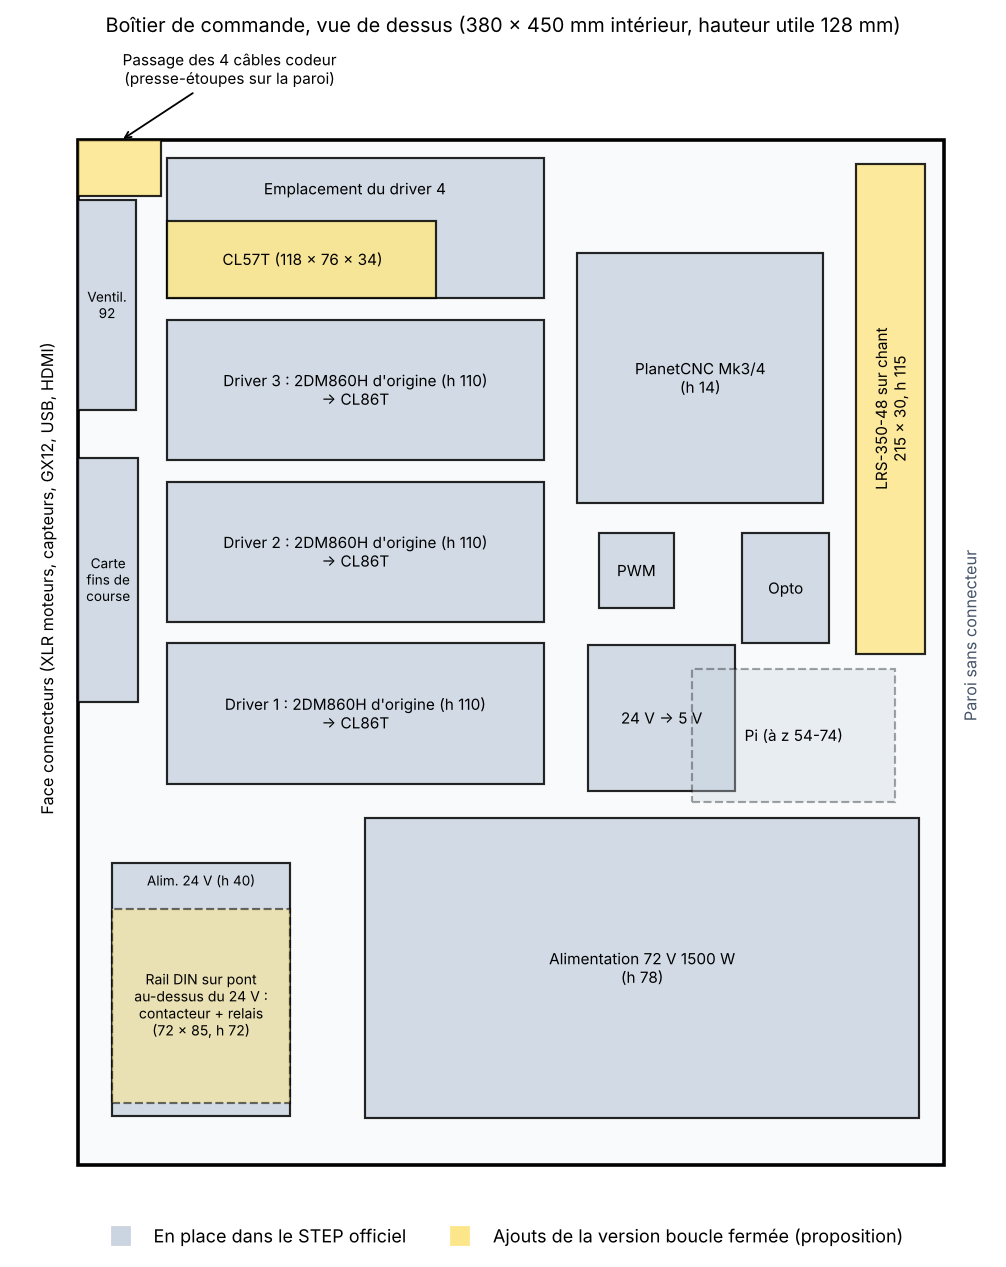
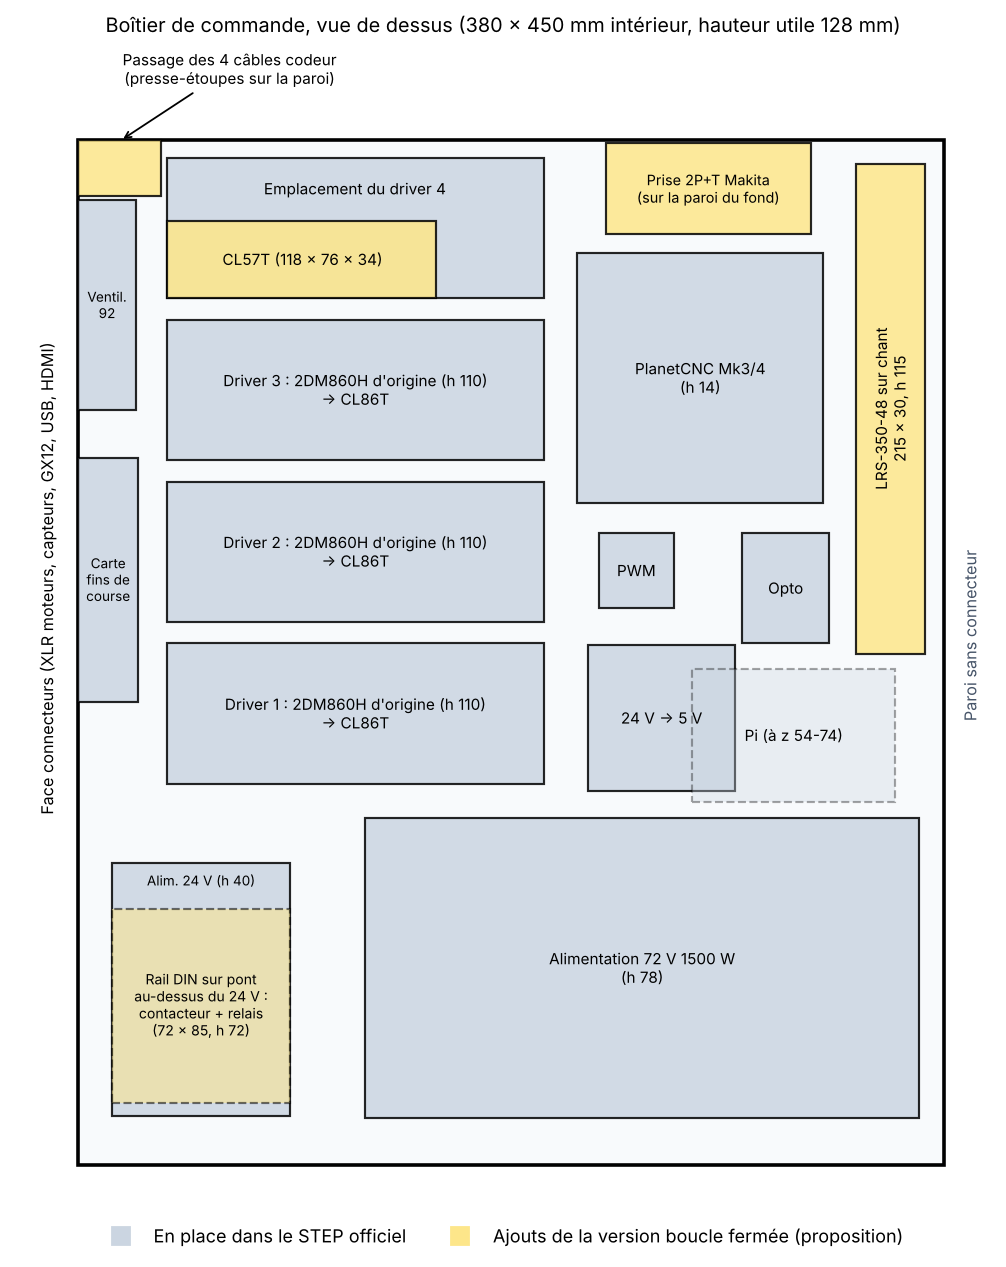
Choix de câblage : bobine 24 V, Makita dans le boîtier de commande
- lot K : contacteur à bobine 24 V CC (le câble de l'arrêt d'urgence reste en
  très basse tension), relais et prise de la Makita dans le boîtier de
  commande, boîtier VFD reporté, câble d'arrêt d'urgence et presse-étoupes
- plan-cablage.md : boucle d'arrêt d'urgence et de marche, choix expliqués
- budget, boîtier de commande, pièces acier et README mis à jour (≈ 7 230 €)

Claude-Session: https://claude.ai/code/session_01FwK9mfrBbJ8mfnDbu7yRaF

Changed region(s): [[0.5855, 0.0923, 0.832, 0.1847]]

diff --git a/docs/budget.md b/docs/budget.md
@@ -13,6 +13,7 @@ Les recherches sont dans [`bom/chiffrage/`](../bom/chiffrage/), rangées en lots
 | H | Visserie livrée en France |
 | I | Moteurs en boucle fermée, martyr |
 | J | Revue finale : arrêt d'urgence câblé, relais 25 A pour la Makita, poulies clavetées |
+| K | Choix de câblage : contacteur à bobine 24 V, relais et prise de la Makita dans le boîtier de commande, boîtier VFD reporté |
 
 Pour tout recalculer : `python3 scripts/price_bom.py`. Pour un chiffrage belge : `FAB_PAYS=BE python3 scripts/price_bom.py`.
 
@@ -20,12 +21,12 @@ Pour tout recalculer : `python3 scripts/price_bom.py`. Pour un chiffrage belge :
 
 | | Montant TTC |
 |---|---|
-| **Total chiffré, port compris** | **≈ 7 290 €** |
-| dont prix lus sur la page produit | 4 908 € (67 %) |
-| dont estimations | 2 381 € (acier découpé, sécurité électrique, articles AliExpress, port) |
-| Avec 10 % d'imprévus (fils, outillage, oublis) | ≈ 8 020 € |
-| Variante économique (voir plus bas) | ≈ 5 740 € |
-| Avec le kit broche 2,2 kW + VFD au lieu de la Makita | ≈ 7 430 € |
+| **Total chiffré, port compris** | **≈ 7 230 €** |
+| dont prix lus sur la page produit | 4 908 € (68 %) |
+| dont estimations | 2 319 € (acier découpé, sécurité électrique, articles AliExpress, port) |
+| Avec 10 % d'imprévus (fils, outillage, oublis) | ≈ 7 950 € |
+| Variante économique (voir plus bas) | ≈ 5 680 € |
+| Avec le kit broche 2,2 kW + VFD au lieu de la Makita | ≈ 7 450 € (boîtier VFD compris) |
 | **Kit officiel Mekanika**, « Pack Fab dès 12 463 € HT » | ≈ 14 960 € TTC |
 
 **Ce qui a changé depuis le premier chiffrage (~7 530 €) :**
@@ -54,7 +55,7 @@ Pour tout recalculer : `python3 scripts/price_bom.py`. Pour un chiffrage belge :
   - un support alu Ø65 mm (à vérifier : un vrai 65,0 mm d'alésage) ;
   - une prise de façade 2P+T.
 - **Spindle plate :** percer ses trous au gabarit du support Ø65 avant la découpe.
-- **Le boîtier VFD devient un boîtier relais.** PlanetCNC (M3/M5) pilote le module relais 5 V d'origine, qui commande un relais 25 A alimentant la Makita. Ce relais est en aval du contacteur d'arrêt d'urgence (lot J) : **l'arrêt d'urgence coupe la Makita électriquement**, sans dépendre du logiciel.
+- **Pas de boîtier VFD pour l'instant (lot K).** Le relais 25 A et la prise de la Makita sont dans le boîtier de commande. PlanetCNC (M3/M5) pilote le module relais 5 V d'origine, qui commande le relais 25 A. Ce relais est en aval du contacteur d'arrêt d'urgence : **l'arrêt d'urgence coupe la Makita électriquement**, sans dépendre du logiciel. Les tôles du boîtier VFD seront à découper le jour où la broche 2,2 kW arrive.
 - **Limites :**
   - 710 W, 3 fois moins de puissance ;
   - vitesse réglée à la main, minimum 10 000 tr/min ;
@@ -97,7 +98,7 @@ La commande reste **PlanetCNC Mk3/4 + licence sur le Raspberry Pi 5**, comme l'o
 
 La revue finale a trouvé que la nomenclature n'avait **aucune coupure de puissance câblée**. L'arrêt d'urgence allait seulement au contrôleur : il dépendait du logiciel, ce qui n'est pas une sécurité. Chaîne retenue :
 
-`C14 + fusible → disjoncteur 15 A → contacteur 25 A (bobine 230 V, auto-maintien) → alimentations 72 V et 48 V, relais Makita (et plus tard VFD)`
+`C14 + fusible → disjoncteur 15 A → contacteur 25 A (bobine 24 V CC, auto-maintien) → alimentations 72 V et 48 V, relais Makita (et plus tard VFD)`
 
 - **Arrêt d'urgence Schneider XB5 à 2 contacts NF :** le premier coupe la bobine du contacteur, le second va à l'entrée arrêt d'urgence de PlanetCNC.
 - **Bouton marche vert :** après un arrêt d'urgence ou une coupure secteur, rien ne redémarre seul.
@@ -112,9 +113,9 @@ La revue finale a trouvé que la nomenclature n'avait **aucune coupure de puissa
 | Structure alu | 1 197 € | Profilés coupés et taraudés M6 chez Dold. 11 profilés 30×60 de 1410 mm, comme dans le STEP (la nomenclature en compte 9) |
 | Moteurs & électronique | 833 € | Kits en boucle fermée (NEMA 34 9 N·m ×3, NEMA 23), alimentations 72, 48 et 24 V, PlanetCNC (carte + licence 226 €), relais 25 A. Raspberry Pi déjà possédé |
 | Visserie & fixations | 729 € | Cornières et écrous coulissants chez Dold, vis chez TME et Motedis.fr |
-| Pièces acier découpées | 590 € | **Estimation**, fourchette ~360 à ~945 € selon le découpeur |
+| Pièces acier découpées | 527 € | **Estimation**, fourchette ~320 à ~850 € selon le découpeur. Sans les tôles du boîtier VFD, reportées |
 | Frais de port | 516 € | ~16 envois, dont 126 € chez DamenCNC (barres de 2 m, estimation prudente) et 52 € chez StepperOnline |
-| Câblage & connectique | 285 € | Prises et multiprise au standard français, rallonges codeur |
+| Câblage & connectique | 287 € | Prises et multiprise au standard français, rallonges codeur |
 | Gestion des câbles | 160 € | Chaînes, chemin de câbles, goulottes |
 | Capteurs & sécurité | 157 € | 6 inductifs M12 PNP, palpeur, arrêt d'urgence 2 NF, contacteur de puissance, bouton marche |
 | Broche | 20 € | Makita déjà possédée : seulement le support Ø65 |
@@ -124,7 +125,7 @@ La revue finale a trouvé que la nomenclature n'avait **aucune coupure de puissa
 - Dold Mechatronik : ~2 600 €, en deux commandes (profilés via aluprofile-express.de, et mécanique : 2 crémaillères de 1 m, pignons, accouplements).
 - Sorotec : 887 € (rails, patins, paliers, port compris).
 - DamenCNC : ~810 € (2 crémaillères de 2 m, port compris).
-- Découpe laser : ~700 €.
+- Découpe laser : ~640 €.
 - AliExpress : ~430 €.
 - StepperOnline : 452 € (4 kits en boucle fermée, rallonges, port compris).
 - PlanetCNC : 240 € (carte Mk3/4, licence, port).
@@ -156,7 +157,7 @@ La revue finale a trouvé que la nomenclature n'avait **aucune coupure de puissa
 10. **Acier.** Seul un vrai devis (téléverser les DXF/STEP de `cad/steel/`) donnera le prix. Les trous de Ø4,3 à 5,5 dans le 8 mm sont à faire pointer puis percer.
 11. **Boîtier de commande (tôles M00279/M00280).** Étudié dans [boitier-commande.md](boitier-commande.md) : le CL57T, l'alimentation LRS-350-48, le contacteur et le relais tiennent, **sans modifier les tôles avant la découpe**. Les perçages en plus se font à la main dans la tôle de 1,5 mm. Les dimensions des pièces ajoutées restent à confirmer sur leurs fiches, et le pont du rail DIN est à fabriquer.
 12. **Rails Y aboutés.** L'original achète des rails « docking », appairés pour être mis bout à bout. Faire confirmer par écrit à Sorotec des rails rectifiés en bout, marqués par paire, avec un pas de trous continu à la jonction. Sinon, il y aura une marche à chaque raccord.
-13. **Plan de câblage.** Rédigé dans [plan-cablage.md](plan-cablage.md) : câblage d'origine relevé dans les schémas, puis modifications de cette version. Il n'y a pas besoin d'embases codeur en façade (presse-étoupes). **Quatre décisions restent à prendre**, dont la tension de la bobine du contacteur : avec la bobine 230 V prévue, le câble de l'arrêt d'urgence porterait le secteur. Les câbles Y2 et Z font 5,3 et 5,7 m : prendre des rallonges codeur de 5 m, en plus des 1,7 m du kit.
+13. ~~**Plan de câblage.**~~ **Rédigé** dans [plan-cablage.md](plan-cablage.md), choix faits (lot K) : contacteur à bobine 24 V CC, relais et prise de la Makita dans le boîtier de commande, bouton marche en façade, presse-étoupes pour les câbles codeur. Restent des points à confirmer sur les notices (palpeur en 5 V, sortie alarme des drivers, attribution des axes).
 14. **Fins de course :** la carte est redessinée, Gerber prêts ([carte-fins-de-course.md](carte-fins-de-course.md)). Elle est passive ; l'optocoupleur est un module séparé, à prendre en version 24 V. **Embases XLR 3 : NC3FAV et non NC3FAV1-0**, qui mettrait les signaux au châssis. Reste à vérifier le sens des embases avec une pièce en main avant de commander le circuit.
 15. **Alimentation 48 V :** son potentiomètre monte jusqu'à ~52,8 V. La laisser à 48 V au plus (limite du CL57T). Récupérer le lien exact du kit NEMA 23 avant de commander.
 16. ~~**Goussets.**~~ **Réglé :** 14, comme dans le modèle 3D. Les 14 positions sont relevées dans [verifications.md](verifications.md), section 5. La ligne est chiffrée pour 14.
@@ -169,4 +170,4 @@ Le kit officiel inclut ce que ce budget ne compte pas :
 - des pièces livrées prêtes à monter : pignon-poulie, crémaillères et profilés appairés ;
 - un montage annoncé à ~25 h, contre plusieurs semaines de sourcing et d'usinage en DIY.
 
-L'économie réelle tourne autour de **6 900 à 7 700 €** (imprévus compris ou non), ou **~9 200 €** en variante économique. Avec la Makita, la machine n'est pas tout à fait équivalente : compter ~145 € de plus pour la broche 2,2 kW.
+L'économie réelle tourne autour de **7 000 à 7 700 €** (imprévus compris ou non), ou **~9 300 €** en variante économique. Avec la Makita, la machine n'est pas tout à fait équivalente : compter ~145 € de plus pour la broche 2,2 kW.

diff --git a/docs/plan-cablage.md b/docs/plan-cablage.md
@@ -5,7 +5,7 @@ Deux parties :
 1. **Le câblage d'origine**, relevé fil par fil dans les schémas officiels (`upstream/fab/docs/Control Unit FAB.qet` et `VFD unit.qet`).
 2. **Ce que change cette version** : moteurs en boucle fermée, alimentation 48 V, coupure de puissance câblée, Makita à la place de la broche.
 
-La partie 1 est lue dans les schémas. La partie 2 est une proposition : elle contient des **décisions à prendre** et des points à confirmer sur les notices, listés à la fin. Rien de tout cela n'a été câblé ni essayé.
+La partie 1 est lue dans les schémas. La partie 2 est une proposition. Les choix faits sont expliqués en partie 3, et les points à confirmer sur les notices sont en partie 4. Rien de tout cela n'a été câblé ni essayé.
 
 > Le secteur 230 V est mortel. Si tu n'as pas l'habitude de câbler une armoire, fais relire la partie puissance par quelqu'un qui l'a.
 
@@ -120,6 +120,7 @@ flowchart LR
 - **Le 24 V reste hors contacteur** : après un arrêt d'urgence, le contrôleur, le Pi et les capteurs restent alimentés et la position est gardée.
 - **Auto-maintien du contacteur :** la bobine est alimentée à travers le contact NF n° 1 de l'arrêt d'urgence, puis le bouton marche (NO) en parallèle avec un contact auxiliaire NO du contacteur. Après une coupure, rien ne repart sans appui sur le bouton marche.
 - **Contact NF n° 2 de l'arrêt d'urgence :** vers l'entrée E-Stop du PlanetCNC, par le connecteur GX12 2 broches d'origine.
+- **Tout ce circuit de commande est en 24 V** : la bobine du contacteur est en 24 V CC, alimentée par le 24 V du boîtier.
 
 ### Drivers en boucle fermée
 
@@ -135,25 +136,40 @@ flowchart LR
 - **Rallonges codeur :** Y2 et Z ont des câbles moteur de 5,3 et 5,7 m ; prendre des rallonges de 5 m en plus des 1,7 m du kit. Les faire passer dans les chaînes avec les câbles moteur, blindage relié d'un seul côté, au boîtier.
 - **Alarme :** c'est le gain principal de la boucle fermée sur un portique à deux moteurs. Si un driver décroche, la machine s'arrête au lieu de se mettre en travers.
 
-### Makita et boîtier relais
+### Arrêt d'urgence et bouton marche
 
 | De | Vers |
 |---|---|
-| Sortie du contacteur (boîtier de commande) | entrée secteur du boîtier relais |
-| Entrée secteur du boîtier relais | contact du relais 25 A → prise 2P+T de la Makita |
-| GX12 « Commande VFD » broche 4 (OUT1) et broche 5 (+5 V) | module relais 5 V, comme l'original |
-| GX12 broche 1, libre dans l'original | **+24 V**, pour la bobine du relais 25 A |
-| GX12 broche 2 | masse commune |
-| Contact du module relais 5 V | coupe le +24 V de la bobine du relais 25 A |
+| +24 V | GX12 « Input 3 » broche 1 → contact NF n° 1 de l'arrêt d'urgence → broche 2 |
+| GX12 « Input 3 » broche 2 | bouton marche (NO), en parallèle avec le contact auxiliaire NO du contacteur |
+| Sortie du bouton marche | bobine du contacteur (A1) ; A2 au 0 V |
+| GX12 « E-Stop » broches 1 et 2 | contact NF n° 2 de l'arrêt d'urgence, comme l'original |
 
-La broche 3 (consigne 0-10 V) ne sert pas avec la Makita. Elle reste câblée pour le jour où la broche 2,2 kW remplace l'affleureuse.
+- Le connecteur « Input 3 » ne va donc plus à l'entrée IN3 du PlanetCNC : il sert à la boucle de la bobine. « Input 2 » reste libre.
+- Un seul câble de 4 conducteurs part du bouton d'arrêt d'urgence et se termine par deux fiches GX12 2 broches.
+- Le bouton marche est sur le boîtier de commande (perçage Ø22).
 
-## 3. Décisions à prendre
+### Makita
 
-1. **Tension de la bobine du contacteur.** Le budget prévoit une bobine 230 V. Le bouton d'arrêt d'urgence est déporté au bout d'un câble : avec une bobine 230 V, **ce câble et son connecteur portent le secteur**, et le GX12 2 broches d'origine n'est pas fait pour ça. Je recommande un contacteur à **bobine 24 V CC**, alimenté par le 24 V du boîtier : le câble de l'arrêt d'urgence reste en très basse tension. Même prix à peu près, référence à changer dans la BOM.
-2. **Connecteur de l'arrêt d'urgence.** Avec 2 contacts NF, il faut 4 conducteurs : soit un second GX12 2 broches (les connecteurs « Input 2 » et « Input 3 » sont libres), soit un GX12 4 broches à la place de celui d'origine.
-3. **Liaison de puissance vers le boîtier relais.** Le secteur commuté doit sortir du boîtier de commande : une embase de sortie (C13 de façade) ou un cordon par presse-étoupe. Aucune des deux n'est dans la BOM. L'autre solution est de mettre le relais 25 A et la prise de la Makita dans le boîtier de commande, et de se passer du boîtier relais tant qu'il n'y a pas de VFD.
-4. **Bouton marche :** sur le boîtier de commande ou à côté de l'arrêt d'urgence. Le second est plus pratique, mais ajoute 2 conducteurs au câble.
+Il n'y a pas de boîtier relais : tout est dans le boîtier de commande.
+
+| De | Vers |
+|---|---|
+| Sortie du contacteur, phase et neutre | contacts du relais 25 A → prise 2P+T de la Makita, sur la paroi du fond |
+| Terre | directement à la prise |
+| OUT1 et +5 V du PlanetCNC | module relais 5 V (entrée IN et alimentation), comme dans le boîtier VFD d'origine |
+| +24 V | contact du module relais 5 V → bobine du relais 25 A ; retour au 0 V |
+
+Les connecteurs « Commande VFD » et la carte PWM ne servent pas avec la Makita. Ils restent utiles le jour où la broche 2,2 kW et son variateur remplacent l'affleureuse : il faudra alors découper le boîtier VFD et le câbler comme l'original.
+
+## 3. Choix faits, et pourquoi
+
+1. **Contacteur à bobine 24 V CC**, et non 230 V. Le bouton d'arrêt d'urgence est déporté au bout d'un câble : avec une bobine 230 V, ce câble et son connecteur GX12 porteraient le secteur. En 24 V, rien de dangereux ne sort du boîtier par ce câble.
+2. **Arrêt d'urgence sur deux GX12 2 broches** déjà présents (« E-Stop » et « Input 3 »). Aucun connecteur à ajouter, seulement un câble de 4 conducteurs.
+3. **Relais et prise de la Makita dans le boîtier de commande.** Un boîtier relais séparé aurait demandé une liaison secteur entre les deux boîtiers, avec une embase de sortie en plus. On économise aussi les tôles du boîtier VFD (environ 70 € avec son embase), reportées au jour où il y aura un variateur.
+4. **Bouton marche sur le boîtier de commande.** Le mettre près de l'arrêt d'urgence serait un peu plus pratique, mais ajouterait 2 conducteurs et un boîtier de bouton.
+
+Ces choix sont dans `bom/chiffrage/lot-K-cablage.csv`. Pour revenir en arrière, il suffit de supprimer ce fichier et de relancer `python3 scripts/price_bom.py`.
 
 ## 4. À confirmer sur les notices
 

diff --git a/docs/boitier-commande.md b/docs/boitier-commande.md
@@ -29,6 +29,8 @@ Cette page vérifie la place disponible, à partir des volumes relevés dans `ca
 | 3 drivers CL86T | environ 151 × 97 × 53 mm | à la place des 2DM860H 1 à 3 | même gabarit annoncé ; entraxe des trous de fixation à comparer aux 142 mm de la tôle |
 | Driver CL57T (axe Z) | environ 118 × 76 × 34 mm | emplacement du 4e driver | large ; 2 trous à percer |
 | Alimentation LRS-350-48 | 215 × 115 × 30 mm | sur chant dans la bande libre, bornes côté Pi | 30 mm dans 50 mm de large, 115 mm dans 128 mm de haut |
+| Prise 2P+T de la Makita | environ Ø45, 40 mm de profondeur | paroi du fond, derrière le PlanetCNC | 46 mm libres entre la carte et la paroi |
+| Module relais 5 V et bouton marche | petits | module près du rail DIN, bouton Ø22 sur la face connecteurs ou la paroi du fond | — |
 | Contacteur 25 A et relais 25 A sur rail DIN | environ 72 × 85 mm, 72 mm de haut rail compris | sur un petit pont au-dessus de l'alimentation 24 V | 72 dans 78 mm, 85 dans 111 mm, 72 dans 88 mm de haut |
 | 4 câbles codeur | câbles de Ø6 environ | 4 presse-étoupes dans la paroi du fond, côté face connecteurs | à côté du ventilateur |
 
@@ -38,7 +40,7 @@ Cette page vérifie la place disponible, à partir des volumes relevés dans `ca
 - **Refroidissement :** la LRS-350 a son propre ventilateur. Le ventilateur du boîtier souffle sur les drivers ; ne pas boucher ses ouïes avec le pont du rail DIN.
 - **Le pont du rail DIN** est une pièce à faire : une tôle pliée en U ou deux entretoises M4 de 45 mm et une plaque. Elle n'est ni dessinée ni chiffrée.
 - **Câbles codeur :** les kits StepperOnline se branchent sur le driver par un bornier, avec un câble à fils nus. Il n'y a donc pas besoin d'embases en façade : des presse-étoupes suffisent. À confirmer à la réception des kits.
-- **Si le contacteur ne tient pas** une fois les pièces en main : le placer dans le boîtier relais (l'ancien boîtier VFD), qui est presque vide dans la variante Makita. Il faut alors deux arrivées secteur sur le boîtier de commande, car le 24 V doit rester hors contacteur.
+- **Si le contacteur ne tient pas** une fois les pièces en main : il reste la solution d'un boîtier séparé (le boîtier VFD d'origine), au prix d'une liaison secteur entre les deux boîtiers.
 
 ## Perçages à faire à la main
 
@@ -50,6 +52,8 @@ La tôle fait 1,5 mm : elle se perce sans difficulté après la découpe. Il vau
 | Ø4,5 pour la LRS-350-48 (trous taraudés M4 de son flanc) | 2 | fond du boîtier |
 | Ø4,5 pour le pont du rail DIN | 2 à 4 | fond du boîtier, autour de l'alimentation 24 V |
 | Ø16 environ pour presse-étoupes PG9 | 4 | paroi du fond, près du ventilateur |
+| Découpe de la prise 2P+T (scie cloche, diamètre selon la prise) | 1 | paroi du fond |
+| Ø22 pour le bouton marche | 1 | au choix |
 | Trous des CL86T, seulement si leur entraxe diffère de 142 mm | jusqu'à 6 | fond du boîtier |
 
 Ébavurer et protéger les trous de la rouille : la tôle est brute.

diff --git a/README.md b/README.md
@@ -28,7 +28,7 @@ fab-diy/
 │       ├── diy/             Pièces redessinées : pattes de fixation des boîtiers (DXF + plan de pose)
 │       └── preview.png      Aperçu de tous les DXF
 ├── docs/
-│   ├── budget.md            Synthèse du chiffrage France (~7 290 € TTC), fournisseurs alternatifs, variantes, points à régler
+│   ├── budget.md            Synthèse du chiffrage France (~7 230 € TTC), fournisseurs alternatifs, variantes, points à régler
 │   ├── verifications.md     Mesures dans le STEP : rainures, cornières, crémaillère, axe Y en tronçons, comptages
 │   ├── profiles-coupe.md    Fiche de coupe et de taraudage des profilés, à joindre au devis
 │   ├── plan-cablage.md      Câblage d'origine relevé dans les schémas, modifications, décisions à prendre
@@ -72,12 +72,12 @@ python3 scripts/flatten_bom.py && python3 scripts/price_bom.py
 - [x] Récupérer les fichiers officiels (nomenclatures, STEP, schémas, notice)
 - [x] Liste d'achat aplatie avec catégories
 - [x] DXF des plaques acier + STEP des tôles pliées
-- [x] Chiffrer la liste d'achat pour la France : ~7 290 € TTC, voir `docs/budget.md`
+- [x] Chiffrer la liste d'achat pour la France : ~7 230 € TTC, voir `docs/budget.md`
 - [x] Goussets : 14, positions relevées dans le STEP (`docs/verifications.md`)
 - [ ] Profilés 30×60 de 1410 mm : 11 dans le STEP, 9 dans la nomenclature. Chiffré pour 11, à confirmer avec le guide de montage
 - [x] Pattes CU-VFD (M01379) absentes du STEP : redessinées d'après les cotes des boîtiers et des traverses, voir `docs/pieces-acier.md`
 - [x] Vérifier rainures, cornières et crémaillère dans le STEP : voir `docs/verifications.md`
-- [ ] Régler les points restants de `docs/budget.md`. Faits : vis X (1500 mm confirmés), poulie Y (5M 80 dents), implantation du boîtier. Plan de câblage rédigé (`docs/plan-cablage.md`, 4 décisions à prendre). Restent : arbres moteurs et brochage des poulies, fabrication du pignon-poulie, devis de port
+- [ ] Régler les points restants de `docs/budget.md`. Faits : vis X (1500 mm confirmés), poulie Y (5M 80 dents), implantation du boîtier. Plan de câblage rédigé (`docs/plan-cablage.md`, choix faits dans le lot K). Restent : arbres moteurs et brochage des poulies, fabrication du pignon-poulie, devis de port
 - [ ] Devis réel découpe laser et pliage (téléverser `cad/steel/`)
 - [ ] Profilés : devis coupe à longueur + taraudage M6 aux extrémités. Fiche prête : `docs/profiles-coupe.md`
 - [ ] Électronique : carte des fins de course. Redessinée, Gerber prêts (`docs/carte-fins-de-course.md`) ; à vérifier avec une embase en main, puis à faire fabriquer

diff --git a/docs/pieces-acier.md b/docs/pieces-acier.md
@@ -35,8 +35,8 @@ Pour faire le développé soi-même : atelier *SheetMetal* de FreeCAD (gratuit) 
 | M00278 | Cable chain holder | 3 mm | 4 | `fab/step/Cable_chain_support_02_v4_Component1_t3mm_x4.step` |
 | M00279 | Control Unit Base | 1,5 mm | 1 | `fab-cu/step/Fab_Control_Unit_Base_v50_Base_t1.5mm_x1.step` |
 | M00280 | Control Unit Cover | 1,5 mm | 1 | `fab-cu/step/Fab_Control_Unit_Cover_v14_Cover_t1.5mm_x1.step` |
-| M00355 | VFD Base | 1,5 mm | 1 | `vfd-cu/step/VFD_Enclosure_Base_v26_Base_t1.5mm_x1.step` |
-| M00356 | VFD Cover | 1,5 mm | 1 | `vfd-cu/step/VFD_Enclosure_Cover_v5_Cover_t1.5mm_x1.step` |
+| M00355 | VFD Base *(reportée, voir plus bas)* | 1,5 mm | 1 | `vfd-cu/step/VFD_Enclosure_Base_v26_Base_t1.5mm_x1.step` |
+| M00356 | VFD Cover *(reportée)* | 1,5 mm | 1 | `vfd-cu/step/VFD_Enclosure_Cover_v5_Cover_t1.5mm_x1.step` |
 
 ## À savoir avant de commander
 
@@ -57,7 +57,7 @@ Pour faire le développé soi-même : atelier *SheetMetal* de FreeCAD (gratuit) 
   - **8 mm :** 28 pièces, dont 14 goussets.
   - **10 mm :** 2 gantries, plus 6 plaques de pied si on ne les achète pas.
   - **3 mm :** 2 plaques plates + 4 pattes de boîtier + 4 pliées.
-  - **1,5 mm :** 4 capots pliés.
+  - **1,5 mm :** 2 capots pliés pour le boîtier de commande ; 2 de plus pour le boîtier VFD, reportés.
 
 ## Pattes des boîtiers (M01379)
 
@@ -98,4 +98,4 @@ Génération : `.venv/bin/python scripts/make_cu_bracket.py` (le script contrôl
 
 - La position des boîtiers est **déduite des cotes**, pas lue dans le guide de montage (support.mekanika.io n'est pas accessible depuis cette session). La coïncidence des deux entraxes laisse peu de doute, mais un coup d'œil au guide le confirmera.
 - Diamètre réel des pieds en caoutchouc achetés : s'ils dépassent Ø17, ils buteront contre la traverse. Les lumières laissent 1,75 mm.
-- Boîtier relais de la variante Makita : il reprend la tôle du boîtier VFD, donc les mêmes pattes.
+- **Boîtier VFD reporté :** avec la Makita, le relais et la prise sont dans le boîtier de commande ([plan-cablage.md](plan-cablage.md)). Les deux tôles du boîtier VFD ne sont pas à découper pour l'instant, et 2 pattes suffisent. En découper 4 quand même évite une seconde commande le jour où la broche arrive.
